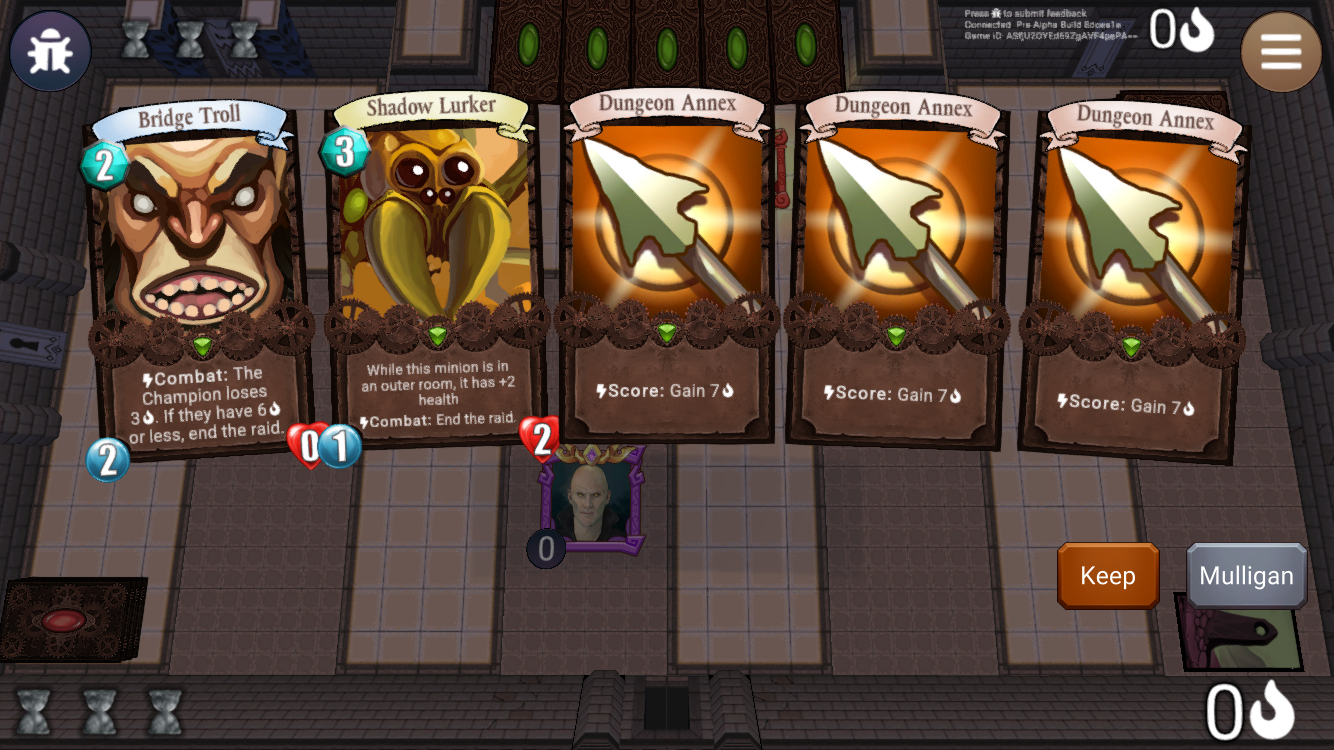
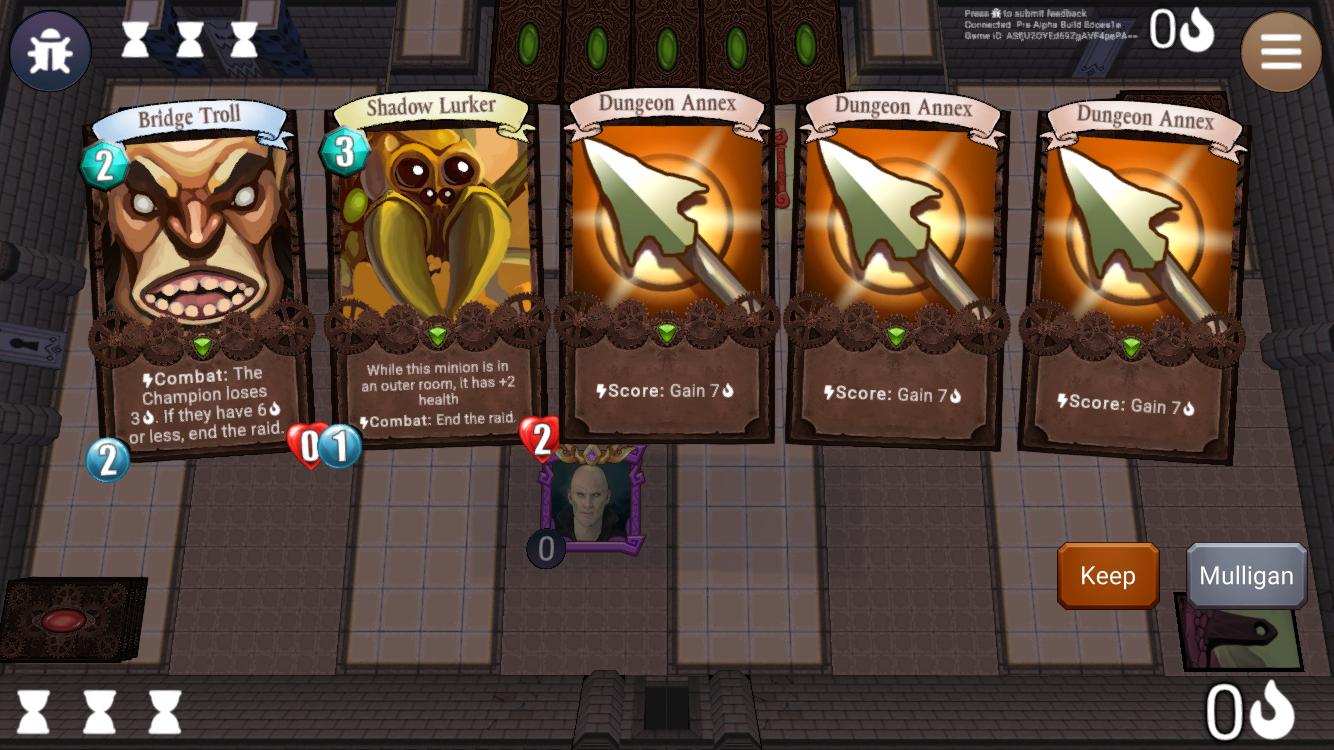
fix animation disabling

Changed region(s): [[0.0, 0.92, 0.1537, 0.9813], [0.0922, 0.0, 0.2151, 0.092]]

diff --git a/Assets/Spelldawn/Services/EndToEndTestService.cs b/Assets/Spelldawn/Services/EndToEndTestService.cs
@@ -32,6 +32,7 @@ namespace Spelldawn.Services
     Registry _registry = null!;
     int _imageNumber = 1000;
     bool _sceneStart;
+    string _directory = null!;
 
     public static void Initialize(Registry registry)
     {
@@ -59,14 +60,19 @@ namespace Spelldawn.Services
       PlayerPrefs.DeleteAll();
       PlayerPrefs.SetInt(Preferences.OfflineMode, 1);
       PlayerPrefs.SetInt(Preferences.InMemory, 1);
+      _directory = Application.isEditor
+        ? "/tmp/spelldawn/Screenshots"
+        : Path.Combine(Application.dataPath, "Screenshots");
+      Directory.CreateDirectory(_directory);
+      Debug.Log($"Saving screenshots to {_directory}");
     }
 
     void OnSceneStart()
     {
-      _registry.ManaDisplayForPlayer(PlayerName.User).DisableSymbolAnimation();
-      _registry.ManaDisplayForPlayer(PlayerName.Opponent).DisableSymbolAnimation();
-      _registry.ActionDisplayForPlayer(PlayerName.User).DisableSymbolAnimation();
-      _registry.ActionDisplayForPlayer(PlayerName.Opponent).DisableSymbolAnimation();
+      _registry.ManaDisplayForPlayer(PlayerName.User).DisableAnimation();
+      _registry.ManaDisplayForPlayer(PlayerName.Opponent).DisableAnimation();
+      _registry.ActionDisplayForPlayer(PlayerName.User).DisableAnimation();
+      _registry.ActionDisplayForPlayer(PlayerName.Opponent).DisableAnimation();
       _registry.Graphy.SetActive(false);
       _sceneStart = true;
     }
@@ -106,12 +112,7 @@ namespace Spelldawn.Services
 
     void Capture(string imageName)
     {
-      var directory = Application.isEditor
-        ? "/tmp/spelldawn/Screenshots"
-        : Path.Combine(Application.dataPath, "Screenshots");
-
-      Directory.CreateDirectory(directory);
-      var path = Path.Combine(directory, $"{_imageNumber++}_{imageName}.png");
+      var path = Path.Combine(_directory, $"{_imageNumber++}_{imageName}.png");
       ScreenCapture.CaptureScreenshot(path);
     }
 
@@ -145,9 +146,7 @@ namespace Spelldawn.Services
 
     static void Quit(int code)
     {
-#if UNITY_EDITOR
-      EditorApplication.isPlaying = false;
-#else
+#if !UNITY_EDITOR
       Application.Quit(code);
 #endif
     }

diff --git a/Assets/Spelldawn/Game/ManaDisplay.cs b/Assets/Spelldawn/Game/ManaDisplay.cs
@@ -33,6 +33,7 @@ namespace Spelldawn.Game
     [SerializeField] TextMeshPro _manaSymbol = null!;
     [SerializeField] uint _currentMana = 5;
     [SerializeField] uint _currentBonusMana = 0;
+    bool _animationDisabled;
 
     public uint CurrentMana => _currentMana;
 
@@ -45,9 +46,10 @@ namespace Spelldawn.Game
       SetBonusMana(manaView.BonusMana);
     }
 
-    public void DisableSymbolAnimation()
+    public void DisableAnimation()
     {
       _manaSymbol.fontMaterial = new Material(Shader.Find("TextMeshPro/Distance Field"));
+      _animationDisabled = true;
     }
 
     public void GainMana(uint amount)
@@ -65,7 +67,7 @@ namespace Spelldawn.Game
     {
       Errors.CheckNonNegative(currentMana);
 
-      if (currentMana != _currentMana)
+      if (currentMana != _currentMana && !_animationDisabled)
       {
         _changeEffect.SetActive(false);
         _changeEffect.SetActive(true);

diff --git a/Assets/Spelldawn/Game/ActionDisplay.cs b/Assets/Spelldawn/Game/ActionDisplay.cs
@@ -43,11 +43,14 @@ namespace Spelldawn.Game
       _filled[_right] = true;
     }
 
-    public void DisableSymbolAnimation()
+    public void DisableAnimation()
     {
-      _left.fontMaterial = new Material(Shader.Find("TextMeshPro/Distance Field"));
-      _center.fontMaterial = new Material(Shader.Find("TextMeshPro/Distance Field"));
-      _right.fontMaterial = new Material(Shader.Find("TextMeshPro/Distance Field"));
+      var disabled = new Material(Shader.Find("TextMeshPro/Distance Field"));
+      _left.fontMaterial = disabled;
+      _center.fontMaterial = disabled;
+      _right.fontMaterial = disabled;
+      _activeMaterial = disabled;
+      _inactiveMaterial = disabled;
     }    
     
     public void RenderActionTrackerView(ActionTrackerView actionTrackerView)
